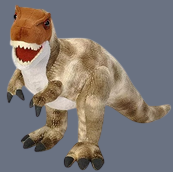
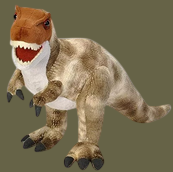
Completed UI upgrade

diff --git a/app/src/components/navbar.tsx b/app/src/components/navbar.tsx
@@ -25,42 +25,38 @@ const Navbar: React.FC<NavbarProps> = ({ activeTab, setActiveTab }) => {
 
   return (
     <nav>
-        <div className="bg-gray-500">
-            <div className="flex items-center py-2">
-                <div className="flex items-center gap-4">
-                    <a href="/" onClick={onLogoClick} className="w-64 shrink-0 flex justify-center">
-                        <img 
-                        src={dinoImg}
-                        alt="Dino" 
-                        style={{ width: '113px', height: '113px' }}
-                        />
-                    </a>
-                    
-                    <h1 className="text-2xl font-semibold">
+        <style>{`@import url('https://fonts.googleapis.com/css2?family=Space+Mono:wght@400;700&family=VT323&display=swap');`}</style>
+        <div className="bg-[#7A4A23] border-b-[5px] border-[#3A2814]">
+            <div className="flex items-stretch">
+                <a href="/" onClick={onLogoClick} className="w-72 shrink-0 flex items-center justify-center py-2 bg-[#666347] border-r-[5px] border-[#3A2814]">
+                    <img
+                    src={dinoImg}
+                    alt="Dino"
+                    style={{ width: '113px', height: '113px' }}
+                    />
+                </a>
+                <div className="flex items-center gap-8 px-9">
+                    <h1 className="font-['VT323',monospace] text-5xl uppercase tracking-widest text-[#FFFDB1] [text-shadow:3px_3px_0_#3A2814]">
                         R.E.X. - Relational Algebra Explorer
                     </h1>
-                </div>
-                <div className="flex gap-4 ml-8">
-                    <button
-                        onClick={onCalculatorClick}
-                        className={`px-4 py-2 rounded ${
-                            activeTab === 'calculator'
-                                ? 'bg-white text-gray-800 font-semibold'
-                                : 'bg-gray-400 text-gray-700 hover:bg-gray-300'
-                        }`}
-                    >
-                        Calculator
-                    </button>
-                    <button
-                        onClick={onGuideClick}
-                        className={`px-4 py-2 rounded ${
-                            activeTab === 'wiki'
-                                ? 'bg-white text-gray-800 font-semibold'
-                                : 'bg-gray-400 text-gray-700 hover:bg-gray-300'
-                        }`}
-                    >
-                        Guide
-                    </button>
+                    <div className="flex gap-4 font-['Space_Mono',monospace] font-bold uppercase tracking-wider text-sm text-[#3A2814]">
+                        <button
+                            onClick={onCalculatorClick}
+                            className={`px-5 py-2.5 border-[3px] border-[#3A2814] rounded-none shadow-[4px_4px_0_#3A2814] cursor-pointer ${
+                                activeTab === 'calculator' ? 'bg-[#FFFDB1]' : 'bg-[#C4A76B] hover:bg-[#FFFDB1]'
+                            }`}
+                        >
+                            Calculator
+                        </button>
+                        <button
+                            onClick={onGuideClick}
+                            className={`px-5 py-2.5 border-[3px] border-[#3A2814] rounded-none shadow-[4px_4px_0_#3A2814] cursor-pointer ${
+                                activeTab === 'wiki' ? 'bg-[#FFFDB1]' : 'bg-[#C4A76B] hover:bg-[#FFFDB1]'
+                            }`}
+                        >
+                            Guide
+                        </button>
+                    </div>
                 </div>
             </div>
         </div>

diff --git a/app/src/components/body.tsx b/app/src/components/body.tsx
@@ -673,7 +673,7 @@ const Body: React.FC<BodyProps> = ({ replaceResult, addToHistory }) => {
             value={query}
             onChange={(e: React.ChangeEvent<HTMLTextAreaElement>) => setQuery(e.target.value)}
             placeholder="your query goes here ..."
-            className="w-full flex-1 min-h-0 px-4 py-3 bg-[#FFFDB1] text-[#3A2814] placeholder:text-[#666347] border-[3px] border-[#3A2814] rounded-none font-mono text-base resize-none shadow-[6px_6px_0_#7A4A23] focus:outline-none focus:shadow-[6px_6px_0_#EA851A]"
+            className="w-full flex-1 min-h-0 px-4 py-3 bg-[#FBF4D4] text-[#3A2814] placeholder:text-[#666347] border-[3px] border-[#3A2814] rounded-none font-mono text-base resize-none shadow-[6px_6px_0_#7A4A23] focus:outline-none focus:shadow-[6px_6px_0_#EA851A]"
           />
         </div>
 
@@ -682,7 +682,7 @@ const Body: React.FC<BodyProps> = ({ replaceResult, addToHistory }) => {
           <div className="self-start bg-[#666347] text-[#FFFDB1] border-[3px] border-b-0 border-[#3A2814] px-3.5 py-1.5 text-[13px] font-bold uppercase tracking-wider">
             Result:
           </div>
-          <pre className="w-full flex-1 min-h-0 px-4 py-3 bg-[#F7E8AA] text-[#3A2814] border-[3px] border-[#3A2814] rounded-none font-mono text-base overflow-auto shadow-[6px_6px_0_#666347]">
+          <pre className="w-full flex-1 min-h-0 px-4 py-3 bg-[#FBF4D4] text-[#3A2814] border-[3px] border-[#3A2814] rounded-none font-mono text-base overflow-auto shadow-[6px_6px_0_#666347]">
             {currentResult || 'Results will appear here after executing a query...'}
           </pre>
         </div>

diff --git a/app/src/components/footer.tsx b/app/src/components/footer.tsx
@@ -2,7 +2,7 @@ import { MarkGithubIcon } from "@primer/octicons-react";
 
 const Footer = () => {
   return (
-    <footer className="bg-[#7A4A23] text-white py-3 px-8 mt-auto">
+    <footer className="bg-[#7A4A23] text-white py-3 px-8 mt-auto border-t-[5px] border-[#3A2814]">
       <div className="max-w-7xl mx-auto flex justify-between items-center">
         <div className="text-sm">
           <h4 className="font-medium">R.E.X. - Relational Algebra Explorer &copy; 2026</h4>
